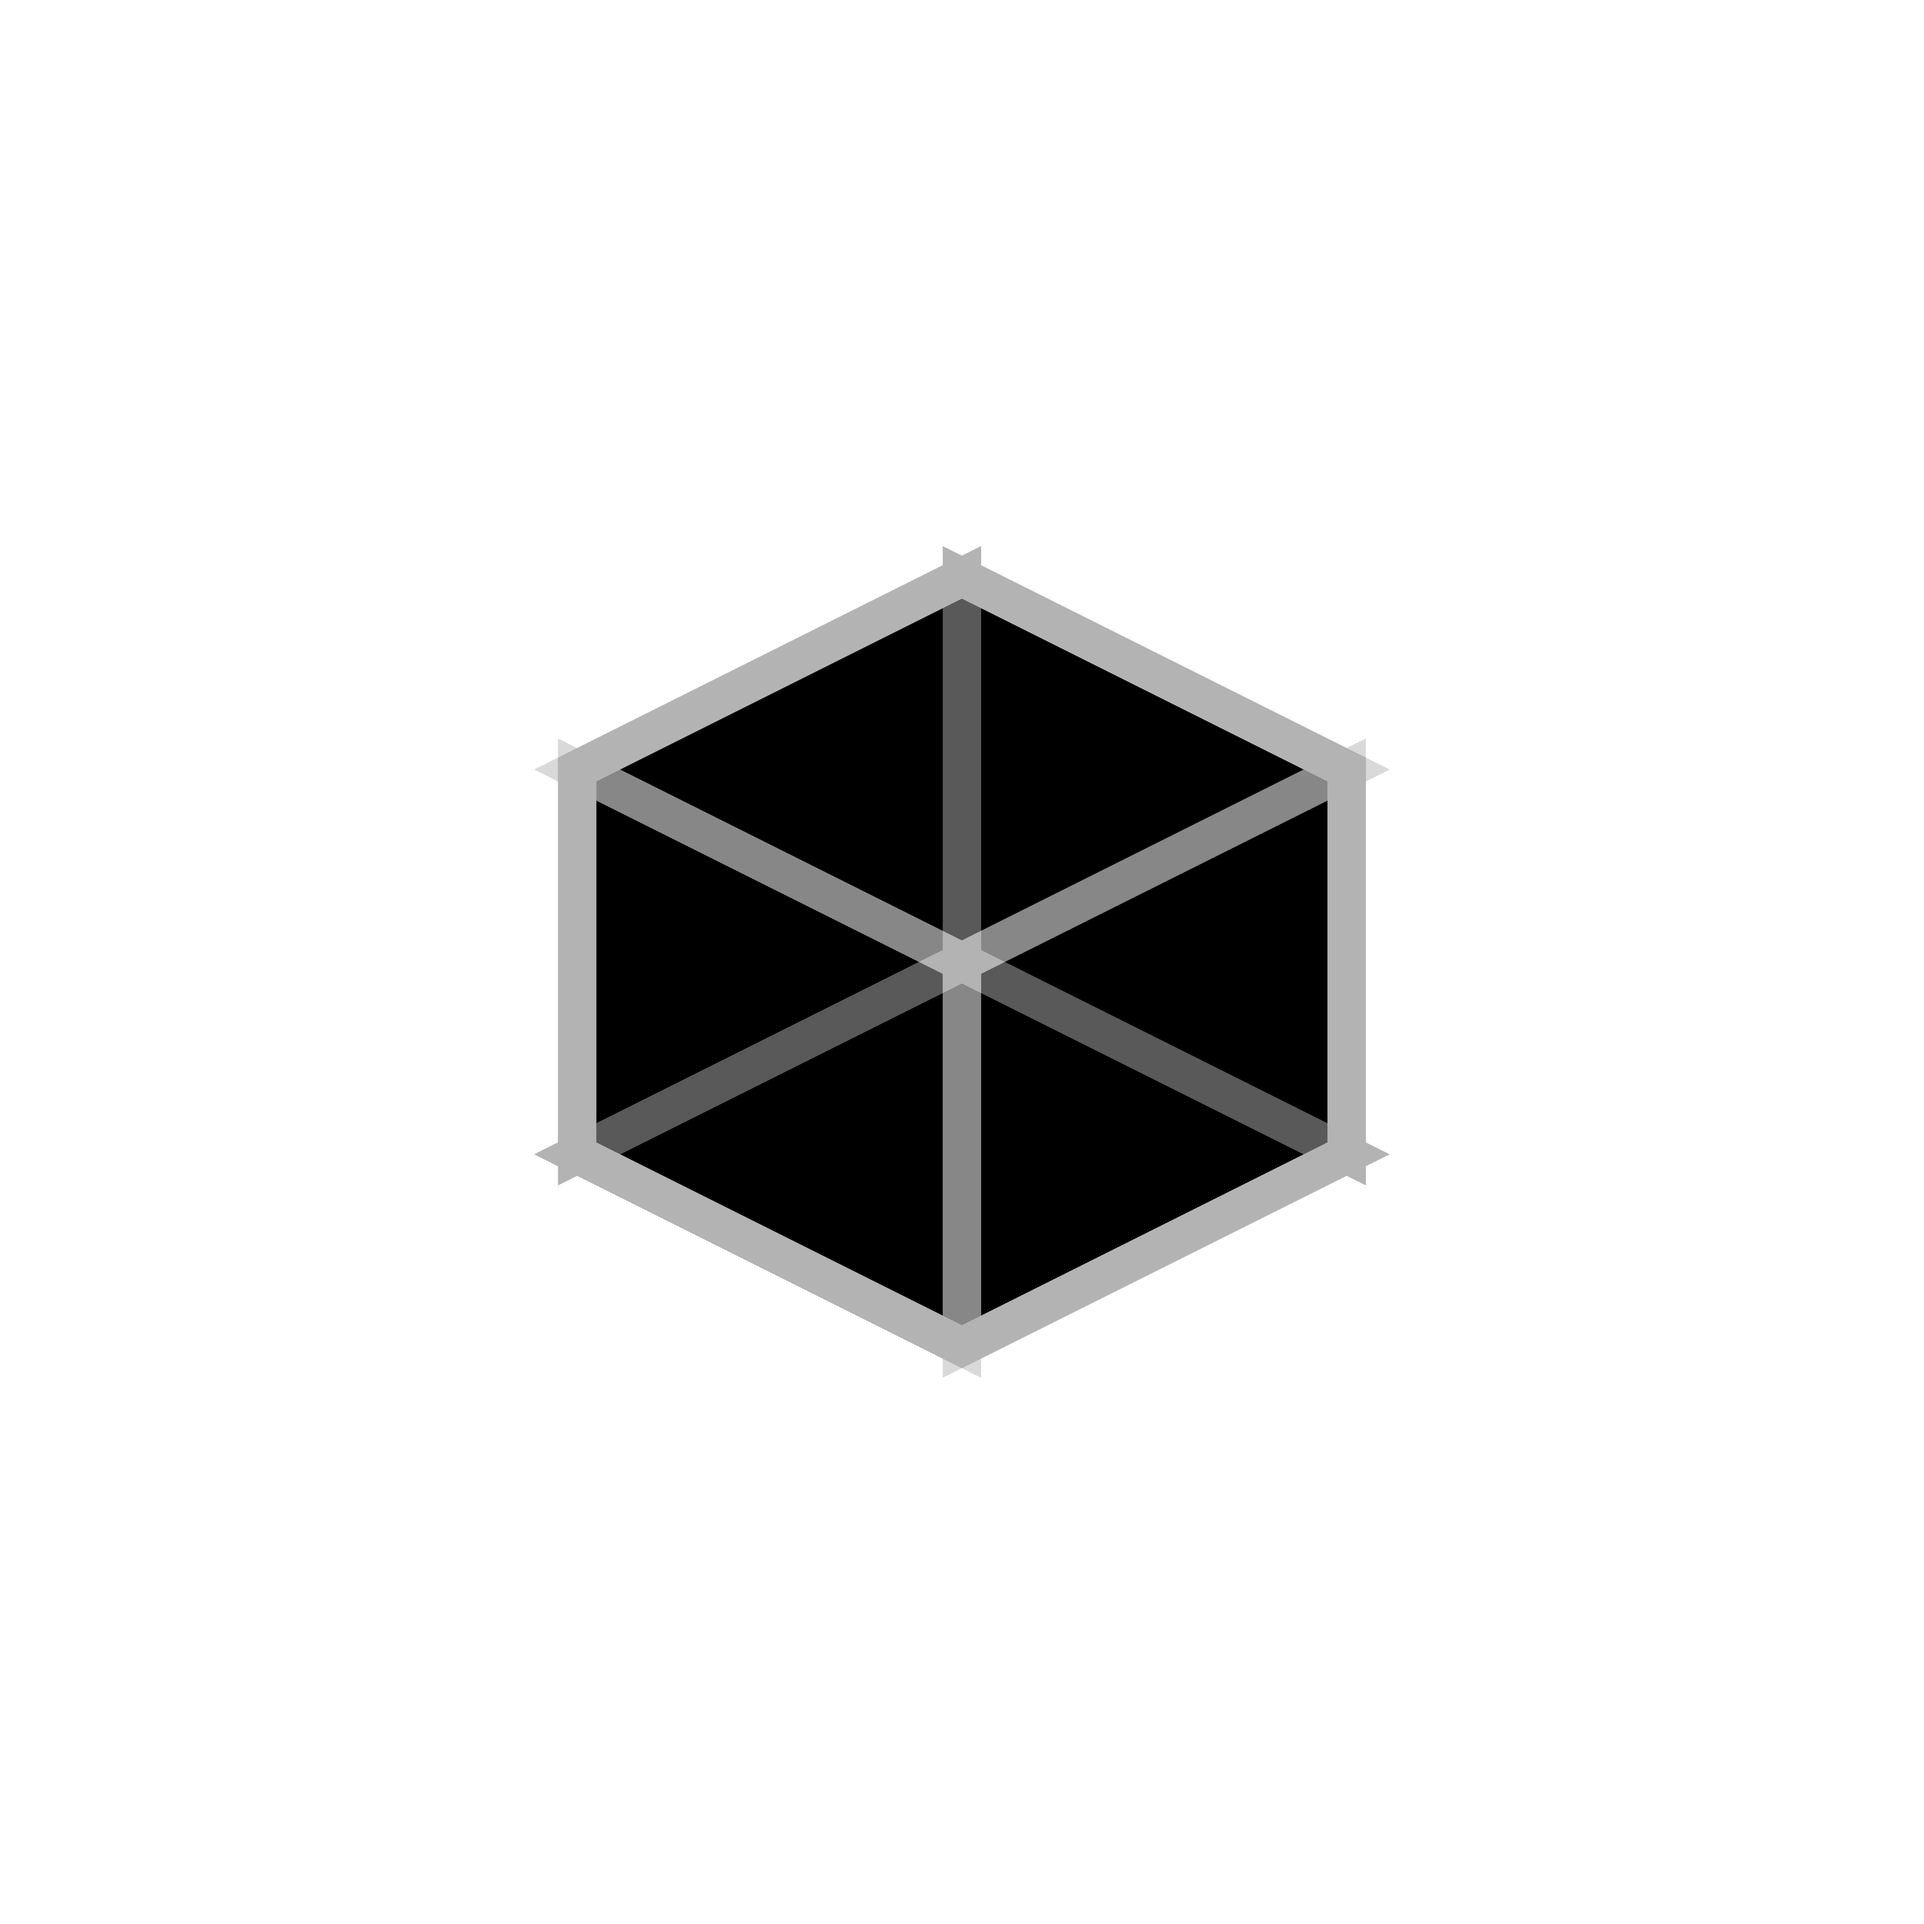
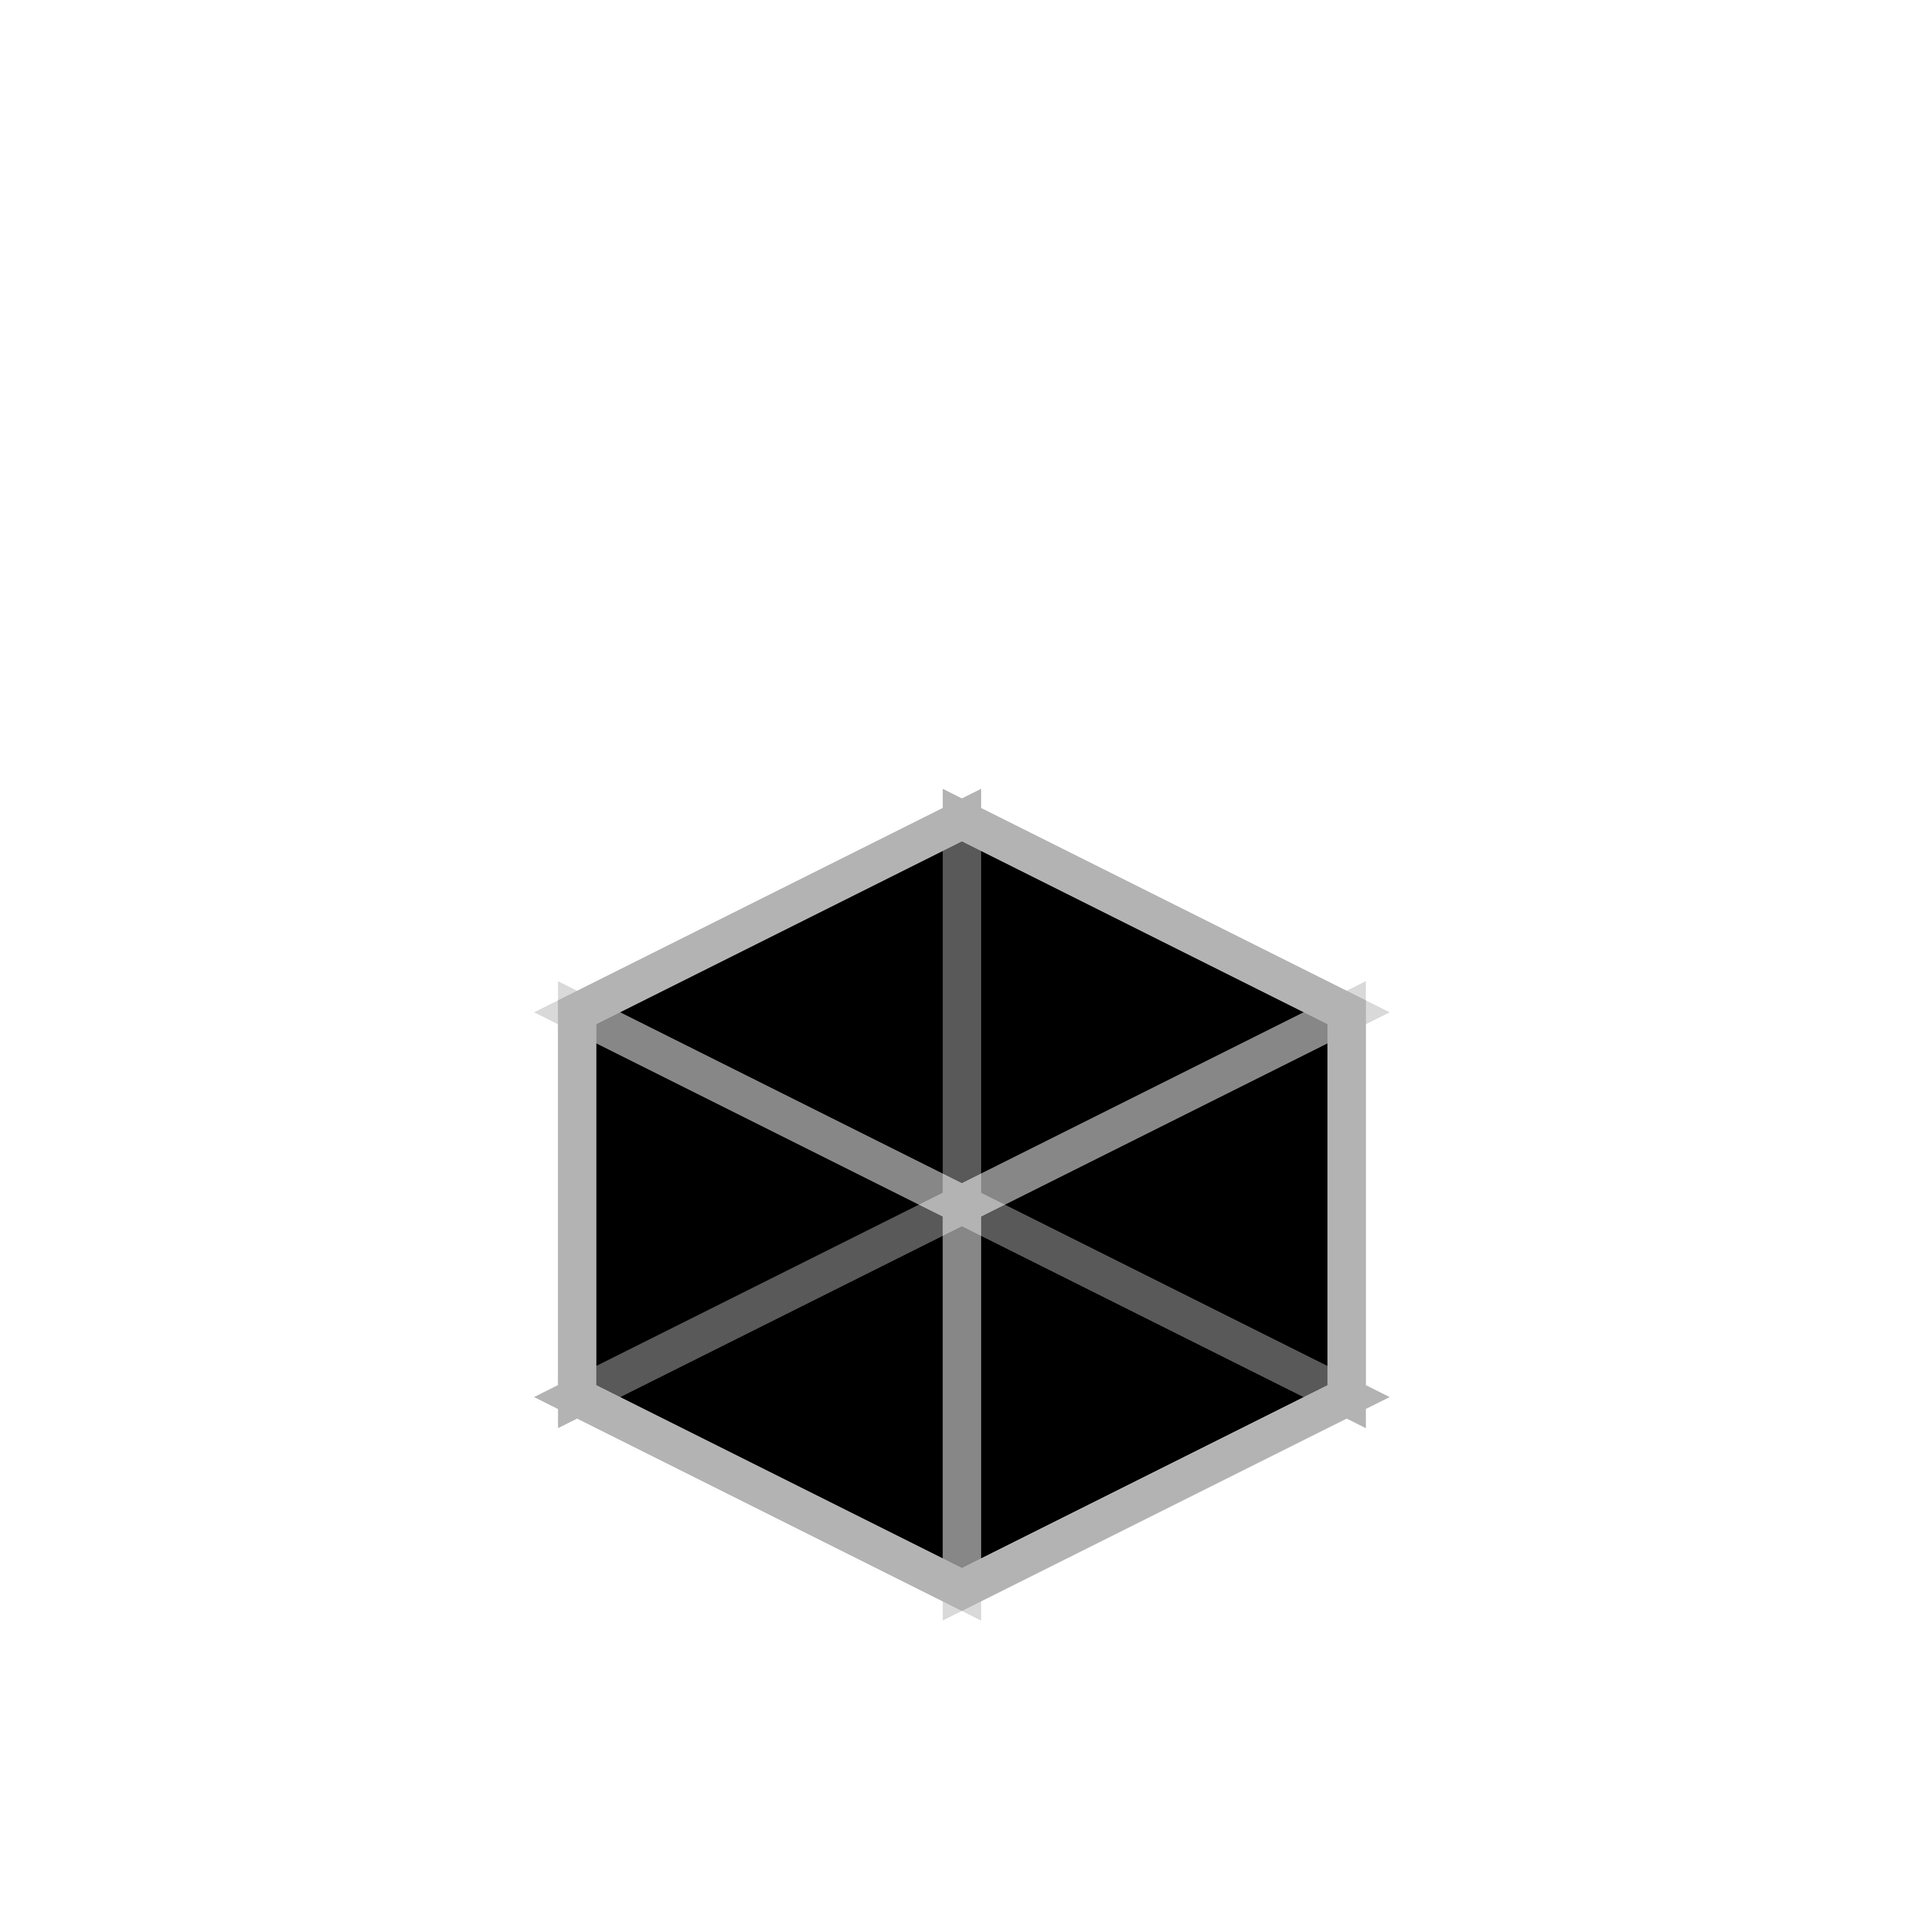
Draw correct dimensions

Changed region(s): [[0.2808, 0.2808, 0.7175, 0.8423]]

diff --git a/src/level/Level.cpp b/src/level/Level.cpp
@@ -6,16 +6,23 @@
 #include <cmath>
 #include <SFML/Graphics/RectangleShape.hpp>
 
-const float ISOMETRIC_TILE_SIZE = 4 * (sqrt(3.0) / 2.0) * TILE_X_SIZE;
+const float ISOMETRIC_TILE_SIZE = measureUnit(TILE_X_SIZE);
 
-void Level::drawTile(sf::RenderTarget &target, Resources &resources, int x, int y) {
+void Level::drawTile(sf::RenderTarget
+                     &target,
+                     Resources &resources,
+                     int x,
+                     int y
+) {
     LevelTile t = tiles[x][y];
     auto rect = sf::FloatRect(x * TILE_X_SIZE, y * TILE_Y_SIZE, ISOMETRIC_TILE_SIZE, ISOMETRIC_TILE_SIZE);
-    resources.render(target, WorldToScreen(rect), t);
+    resources.
+            render(target, WorldToScreen(rect), t
+    );
 }
 
 void Level::draw(sf::RenderTarget &target, Resources &resources) {
-    //target.setView(getView(target));
+    target.setView(getView(target));
 
     for (int r = 0; r < LEVEL_X_SIZE; r++) {
         for (int y = 0; y < LEVEL_Y_SIZE && r - y >= 0; y++) {
@@ -24,6 +31,12 @@ void Level::draw(sf::RenderTarget &target, Resources &resources) {
     }
 
     resources.render(target, WorldToScreen(player->getRect()), player->texture_id);
+    sf::RectangleShape marker(sf::Vector2f(ISOMETRIC_TILE_SIZE, ISOMETRIC_TILE_SIZE));
+    marker.setOutlineColor(sf::Color::White);
+    marker.setOutlineThickness(5.f);
+    marker.setFillColor(sf::Color::Transparent);
+    marker.setPosition(WorldToScreen(player->getRect().getPosition()));
+    target.draw(marker);
     for (auto npc : npcs) {
         resources.render(target, WorldToScreen(npc->getRect()), npc->texture_id);
     }
@@ -57,7 +70,8 @@ bool Level::tick(TickContext &ctx) {
 sf::View Level::getView(sf::RenderTarget &target) {
     sf::View view{};
     view.setCenter(WorldToScreen(sf::Vector2f(player->position.x * TILE_X_SIZE, player->position.y * TILE_Y_SIZE)));
-    view.setSize(VIEWPORT_WIDTH, VIEWPORT_HEIGHT);
+    view.move(ISOMETRIC_TILE_SIZE / 2, ISOMETRIC_TILE_SIZE / 2);
+    view.setSize(ISOMETRIC_TILE_SIZE * 8, ISOMETRIC_TILE_SIZE * 8);
     return view;
 }
 
@@ -66,7 +80,6 @@ sf::Vector2f WorldToScreen(sf::Vector2f v) {
     return sf::Vector2f(2.0f * v.x - 2.0f * v.y, v.x + v.y);
 }
 
-
 sf::FloatRect WorldToScreen(sf::FloatRect r) {
     return sf::FloatRect(WorldToScreen(r.getPosition()), sf::Vector2f(ISOMETRIC_TILE_SIZE, ISOMETRIC_TILE_SIZE));
 }
@@ -74,3 +87,9 @@ sf::FloatRect WorldToScreen(sf::FloatRect r) {
 sf::Vector2f ScreenToWorld(sf::Vector2f v) {
     return sf::Vector2f((v.x + 2.0f * v.y) / 4.0f, (2.0f * v.y - v.x) / 4.0f);
 }
+
+float measureUnit(float distance) {
+    auto bottomLeftCorner = WorldToScreen(sf::Vector2f(0, distance));
+    auto bottomRightCorner = WorldToScreen(sf::Vector2f(distance, 0));
+    return bottomRightCorner.x - bottomLeftCorner.x;
+};

diff --git a/src/level/Level.h b/src/level/Level.h
@@ -46,3 +46,5 @@ sf::Vector2f ScreenToWorld(sf::Vector2f v);
 sf::Vector2f WorldToScreen(sf::Vector2f v);
 
 sf::FloatRect WorldToScreen(sf::FloatRect r);
+
+float measureUnit(float distance);
